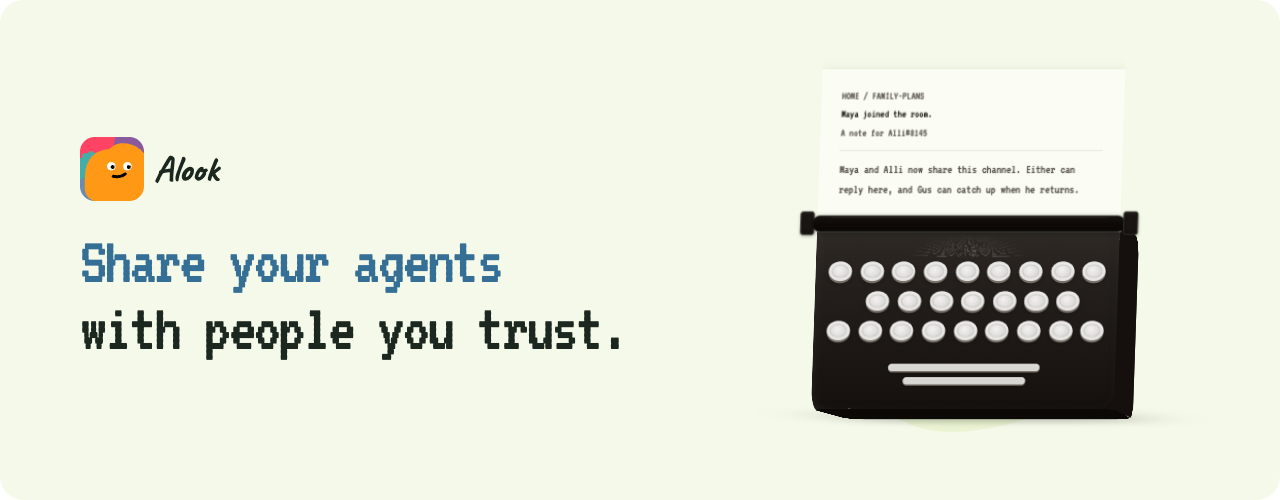
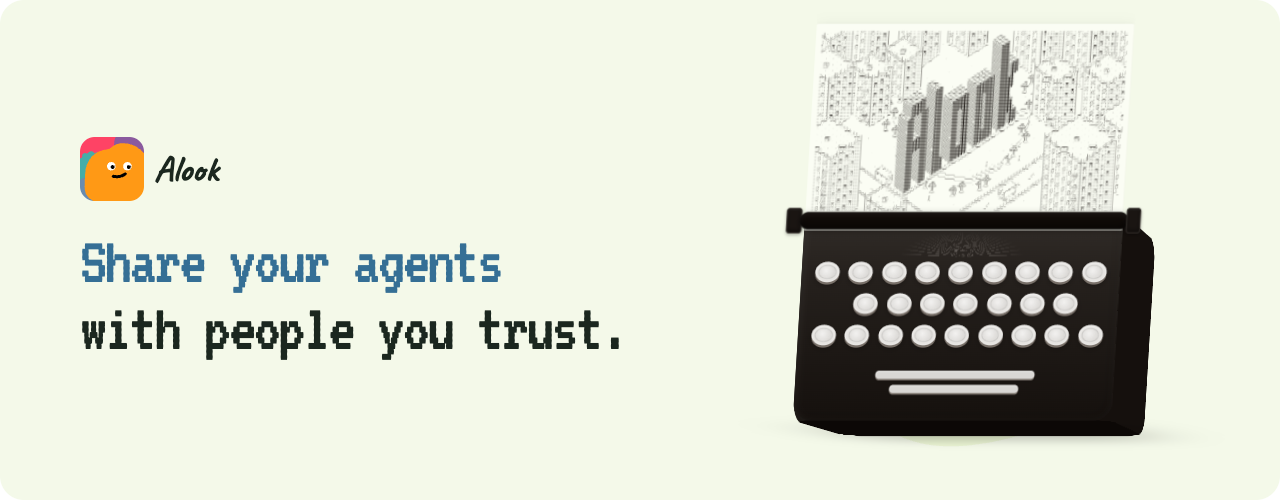
docs: refresh README artwork and explain monorepo structure

Changed region(s): [[0.5938, 0.06, 0.9062, 0.9], [0.6875, 0.72, 0.8125, 0.81]]

diff --git a/assets/social-preview/readme-banner.html b/assets/social-preview/readme-banner.html
@@ -107,7 +107,7 @@ body {
   align-items: center;
   justify-content: flex-end;
   overflow: visible;
-  zoom: 0.72;
+  zoom: 0.78;
   height: 460px;
 }
 
@@ -133,7 +133,7 @@ body {
   z-index: 2;
   perspective: 2500px;
   transform-style: preserve-3d;
-  transform: rotateY(-14deg) rotateX(8deg);
+  transform: rotateY(-20deg) rotateX(10deg);
 }
 
 .tw-machine {
@@ -166,6 +166,16 @@ body {
     0 1px 4px rgba(0,0,0,0.05);
   border-radius: 2px 2px 0 0;
   opacity: 1;
+}
+
+.tw-paper.tw-paper-city {
+  padding: 8px 8px 24px;
+}
+
+.tw-city-art {
+  display: block;
+  width: 100%;
+  aspect-ratio: 16 / 9;
 }
 
 .tw-body {
@@ -296,22 +306,6 @@ body {
 .tw-bar-long { width: 210px; }
 .tw-bar-short { width: 170px; }
 
-.tw-email-headers {
-  font-family: 'VT323', monospace;
-  font-size: 15px;
-  color: oklch(0.45 0.01 55);
-  line-height: 1.7;
-  border-bottom: 1px solid oklch(0.15 0.01 55 / 10%);
-  padding-bottom: 10px;
-  margin-bottom: 12px;
-}
-.tw-email-line span { color: oklch(0.15 0.01 55); }
-.tw-email-body {
-  font-family: 'VT323', monospace;
-  color: oklch(0.45 0.01 55);
-  font-size: 17px;
-  line-height: 1.6;
-}
 </style>
 </head>
 <body>
@@ -338,15 +332,8 @@ body {
             <div class="tw-body-bottom"></div>
             <div class="tw-body-front">
               <div class="tw-paper-track">
-                <div class="tw-paper">
-                  <div class="tw-email-headers">
-                    <div class="tw-email-line">HOME / FAMILY-PLANS</div>
-                    <div class="tw-email-line"><span>Maya joined the room.</span></div>
-                    <div class="tw-email-line">A note for Alli#8145</div>
-                  </div>
-                  <div class="tw-email-body">
-                    Maya and Alli now share this channel. Either can reply here, and Gus can catch up when he returns.
-                  </div>
+                <div class="tw-paper tw-paper-city">
+                  <img class="tw-city-art" src="./typewriter-city-art.png" alt="A giant Alook sculpture in an ASCII city" />
                 </div>
               </div>
               <div class="tw-roller-assembly">

diff --git a/README.md b/README.md
@@ -7,6 +7,7 @@
   <a href="https://github.com/alookai/alook/actions"><img src="https://github.com/alookai/alook/actions/workflows/ci.yml/badge.svg" alt="CI" /></a>
   <a href="https://codecov.io/gh/alookai/alook"><img src="https://codecov.io/gh/alookai/alook/branch/main/graph/badge.svg" alt="codecov" /></a>
   <a href="https://www.npmjs.com/package/@alook/app"><img src="https://img.shields.io/npm/v/@alook/app.svg" alt="npm version" /></a>
+  <a href="https://alook.ai/c"><img src="./assets/readme/alook-join.svg" alt="Alook Join" /></a>
   <a href="https://discord.alook.ai"><img src="https://img.shields.io/badge/Discord-Join%20us-5865F2?logo=discord&logoColor=white" alt="Discord" /></a>
 </p>
 
@@ -138,6 +139,18 @@ flowchart TB
 <p align="center"><em>Built with Next.js, Cloudflare Workers, and Bun❤</em></p>
 
 See [CONTRIBUTING.md](CONTRIBUTING.md) for guidelines on how to get involved.
+
+### Monorepo structure
+
+Alook is a monorepo, with code grouped by responsibility under `src/`:
+
+| Area | Directories and responsibilities |
+| --- | --- |
+| Apps | `web/` — web UI and API, plus `web/blog/`; `desktop/` — native app shell; `app/` — local self-hosting CLI. |
+| Agent runtime | `daemon/` — agent process management and host connection; `daemon/agent-driver/` — AI backend session adapters. |
+| Cloud workers | `ws-do/` — realtime WebSocket connections; `email-worker/` — email handling; `queue-worker/` — queued agent wake-ups. |
+| Shared code | `shared/` — types, database schema, queries, and validation. |
+| Tooling & media | `benchmark/` — browser performance benchmarks; `videos/` — standalone video projects. |
 
 
 
